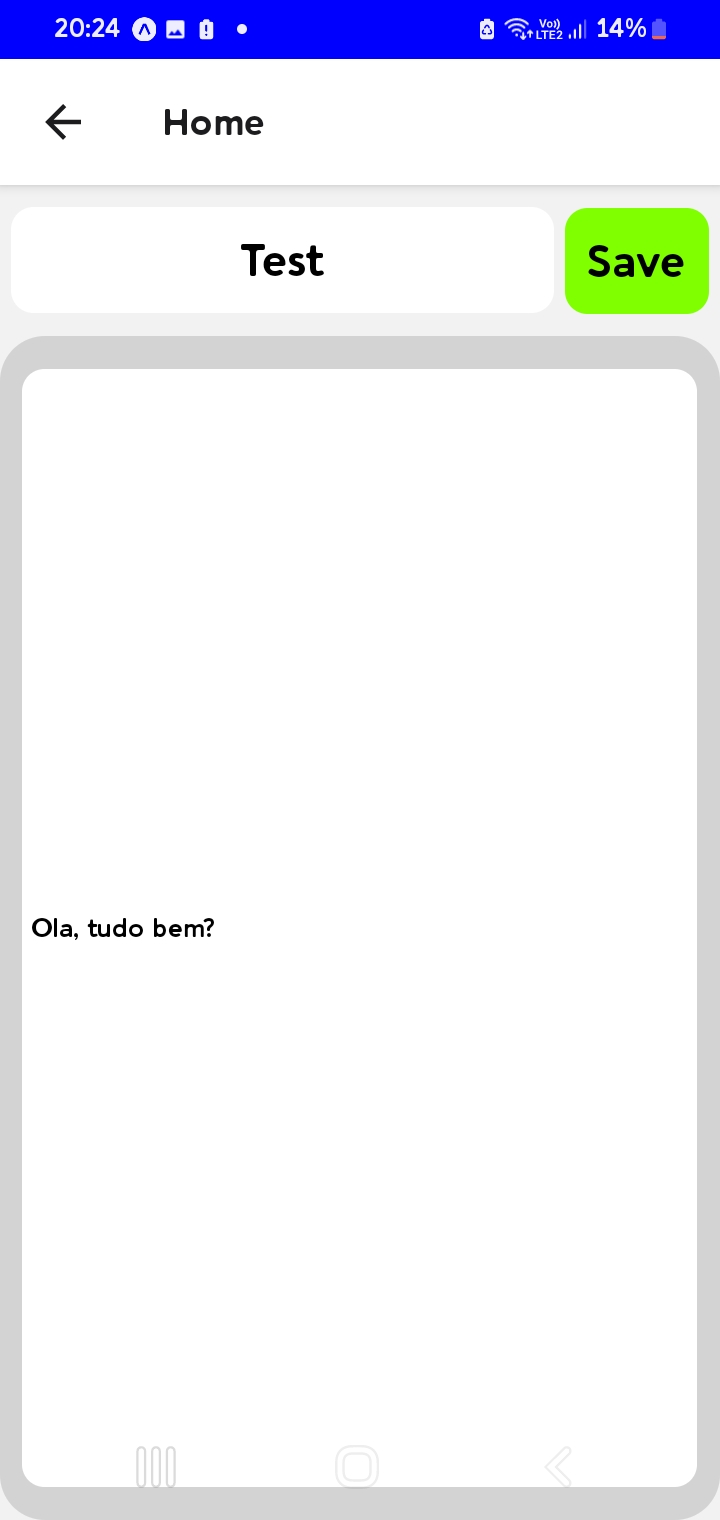
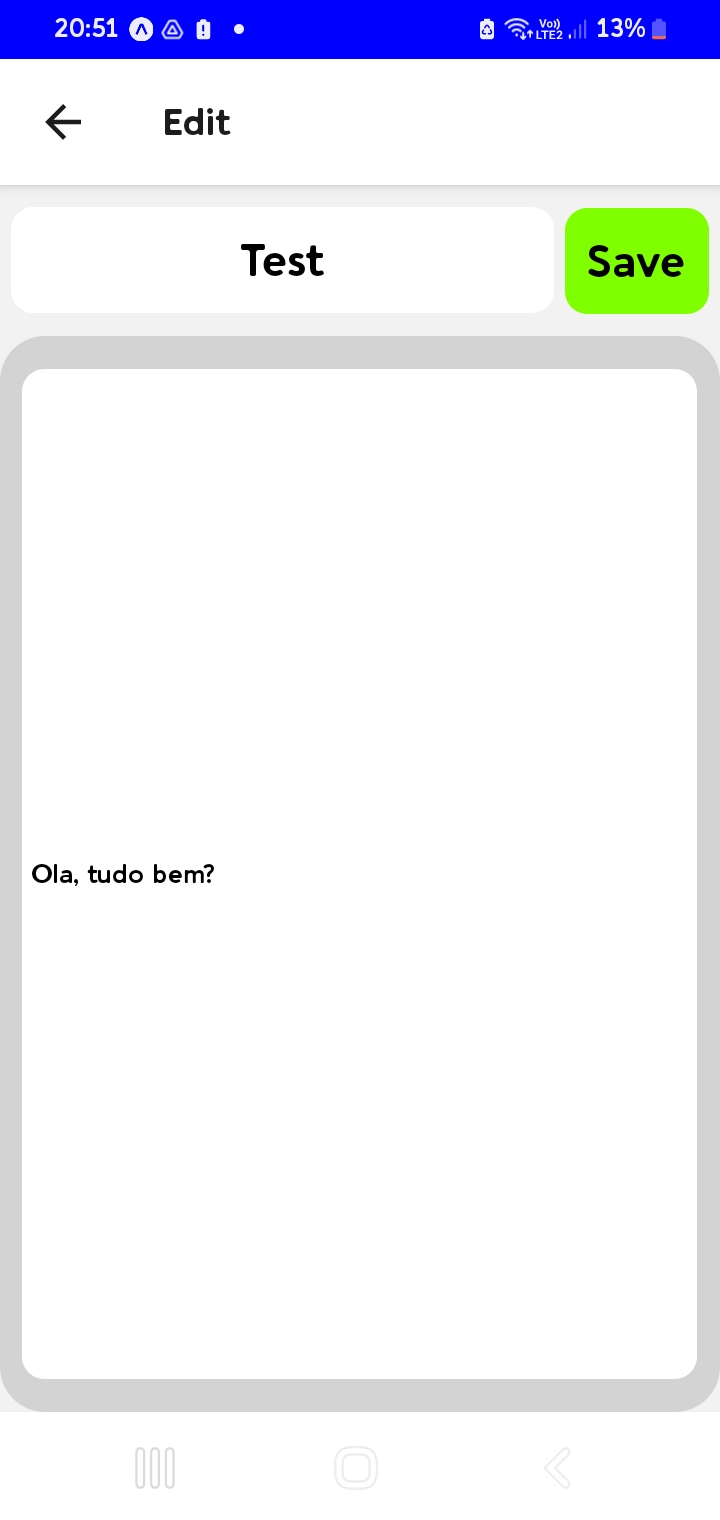
type: modify files file:  - .github/preview/edit.jpg  - app/edit/[id].tsx description: change view title.

diff --git a/app/edit/[id].tsx b/app/edit/[id].tsx
@@ -65,7 +65,7 @@ export default function index()
     .catch(() => console.log('Fail to load data in /edit/[id]'));
   }, []);
   return (
-    <MainContainer title='Home'>
+    <MainContainer title='Edit'>
         <View style={styles.menu}>
             <Text style={styles.titleInput}>{title}</Text>
             <TouchableHighlight 
